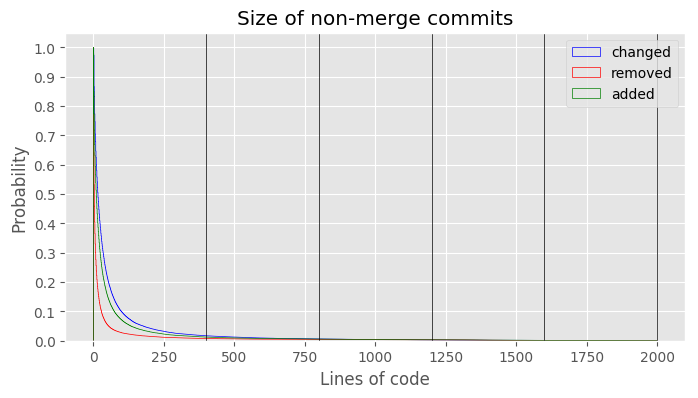
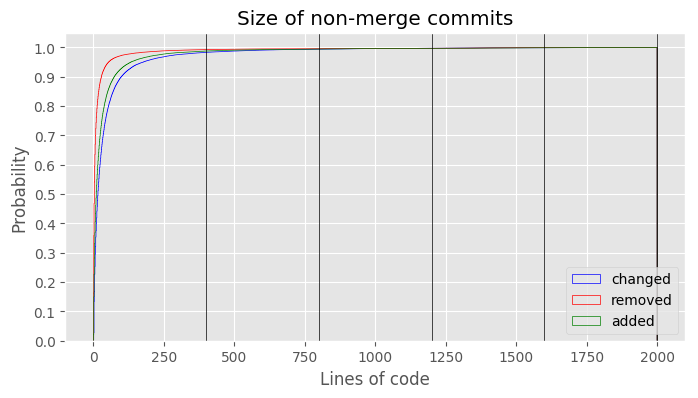
Actually make a CDF
The cumulative=-1 option actually generates a quantile function, or an
inverse cumulative distribution function. The regular cumulative
distribution function is most clearly described as [1]

    the probability that X will take a value less than or equal to x

whereas the quantile function [2]

    tells you what x would make F(x) return some value p

In summary, the CDF translates x to p and the quantile function
translates p to x.

Because this generally moves the knee to the top left, force the legend
to the lower right.

[1] https://en.wikipedia.org/wiki/Cumulative_distribution_function
[2] https://stats.stackexchange.com/a/212828

diff --git a/commit-size-distribution.py b/commit-size-distribution.py
@@ -160,10 +160,10 @@ def main(args):
             histtype="step",
             range=x_range,
             color=("green", "red", "blue"),
-            cumulative=-1,
+            cumulative=True,
             label=("added", "removed", "changed"))
 
-    ax.legend().set_visible(True)
+    ax.legend(loc="lower right").set_visible(True)
 
     if args.mark_hours:
         mark_hours(ax)
